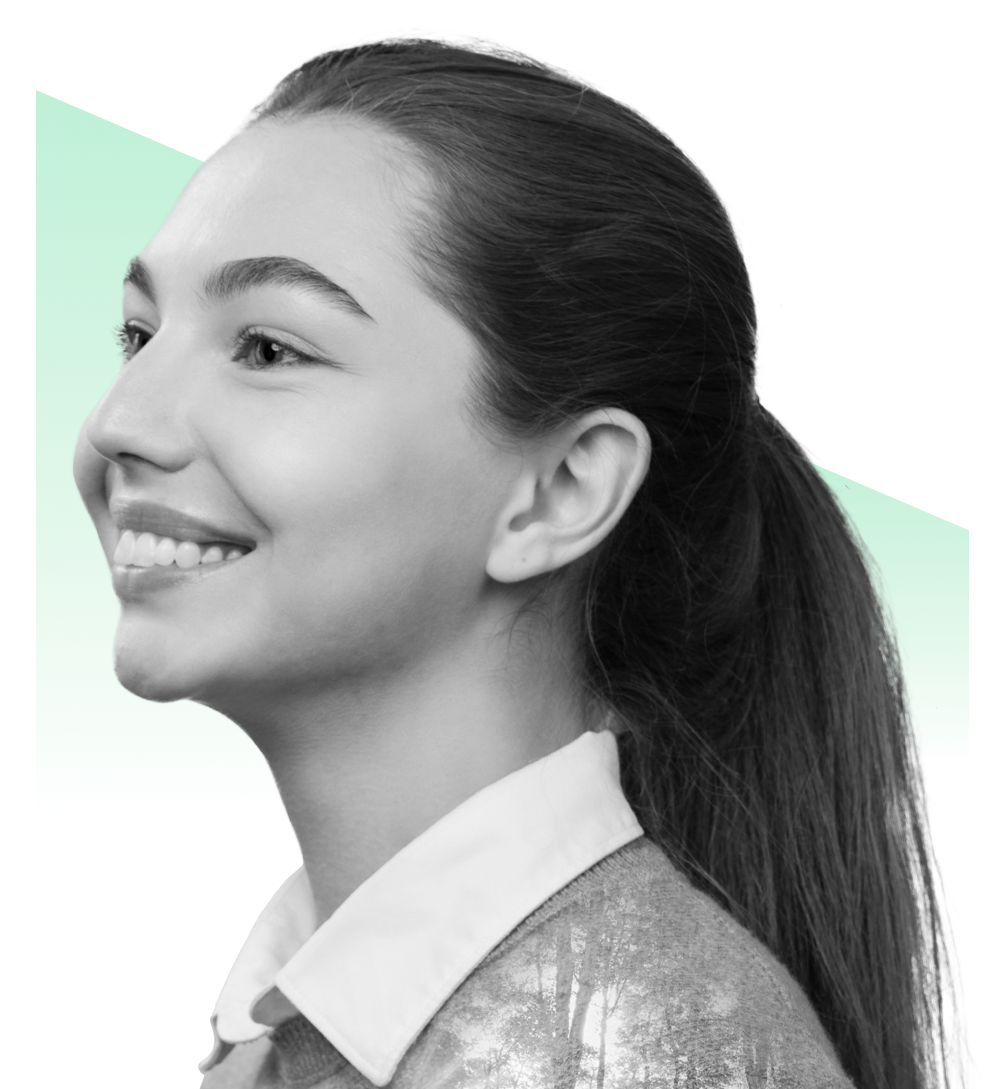
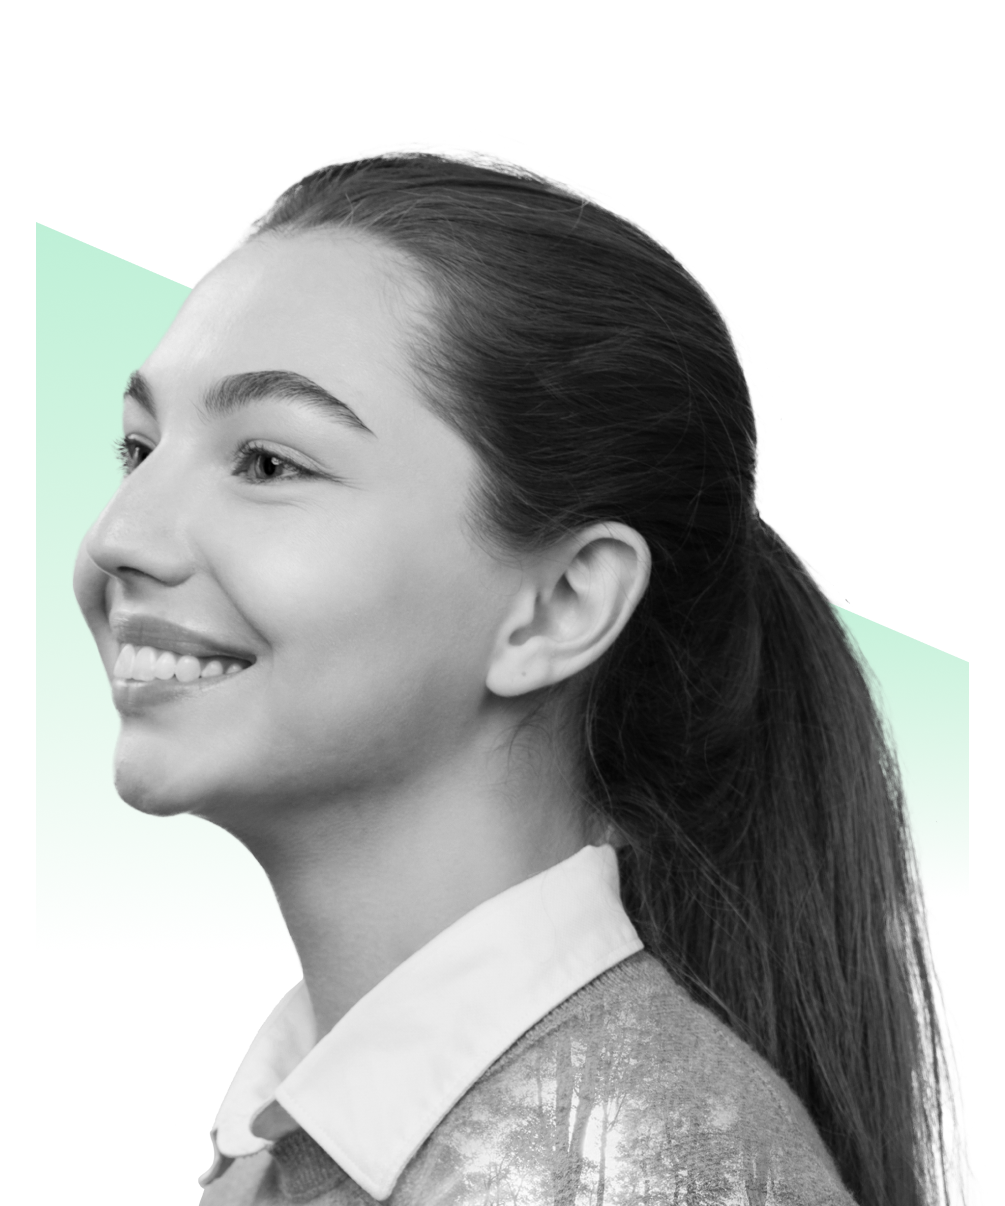
#up

diff --git a/src/styles/content/components/preview.scss b/src/styles/content/components/preview.scss
@@ -422,6 +422,12 @@
       object-position: -40px;
     }
   }
+
+  .ecology-preview {
+    img {
+      object-position: -40px;
+    }
+  }
 }
 
 @media #{media('<',t)} {
@@ -449,7 +455,10 @@
 
     img {
       object-fit: contain;
-      object-position: left;
+
+      @media #{media('<',t)} {
+        object-position: left;
+      }
     }
 
     &__name {
@@ -498,9 +507,6 @@
       }
     }
   }
-
-
-
 }
 
 @media #{media('<',m)} {
@@ -509,7 +515,7 @@
     margin-top: 40px;
 
     &__img {
-      margin-top: 65px;
+      margin-top: 32px;
     }
 
     .desktop {
@@ -601,7 +607,6 @@
       height: 410px;
 
       img {
-        // object-fit: cover;
         object-fit: contain;
       }
     }
